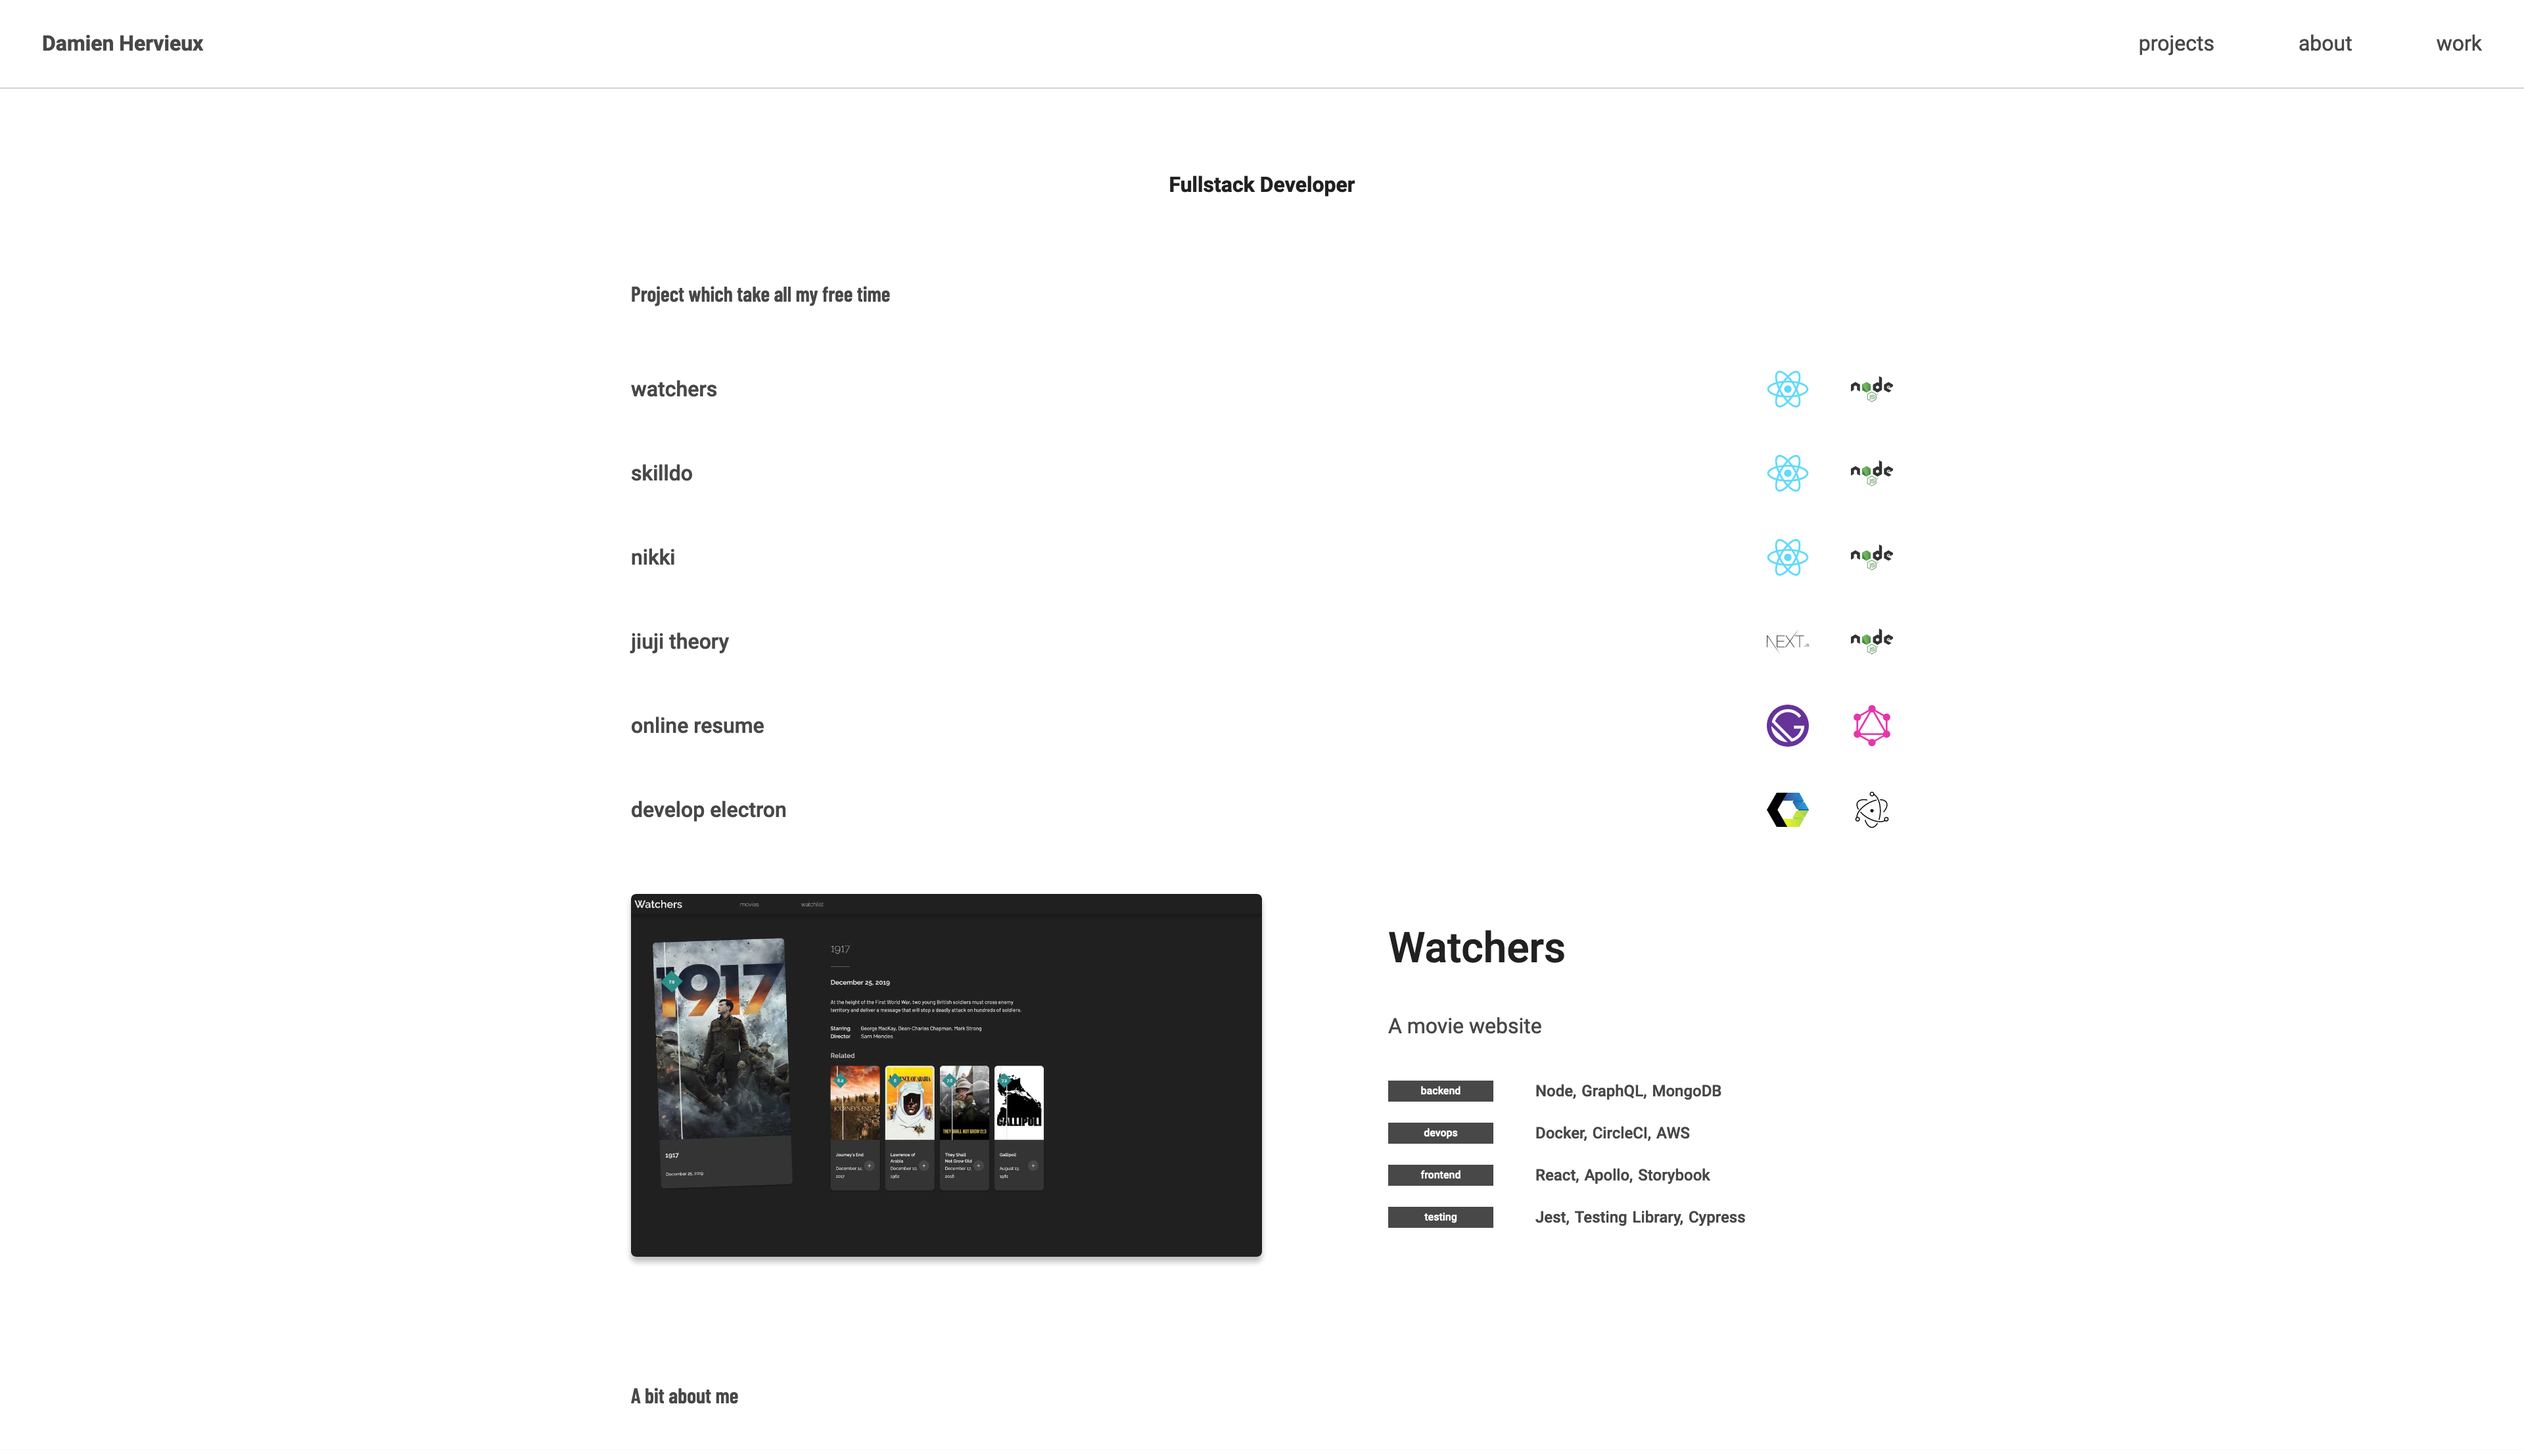
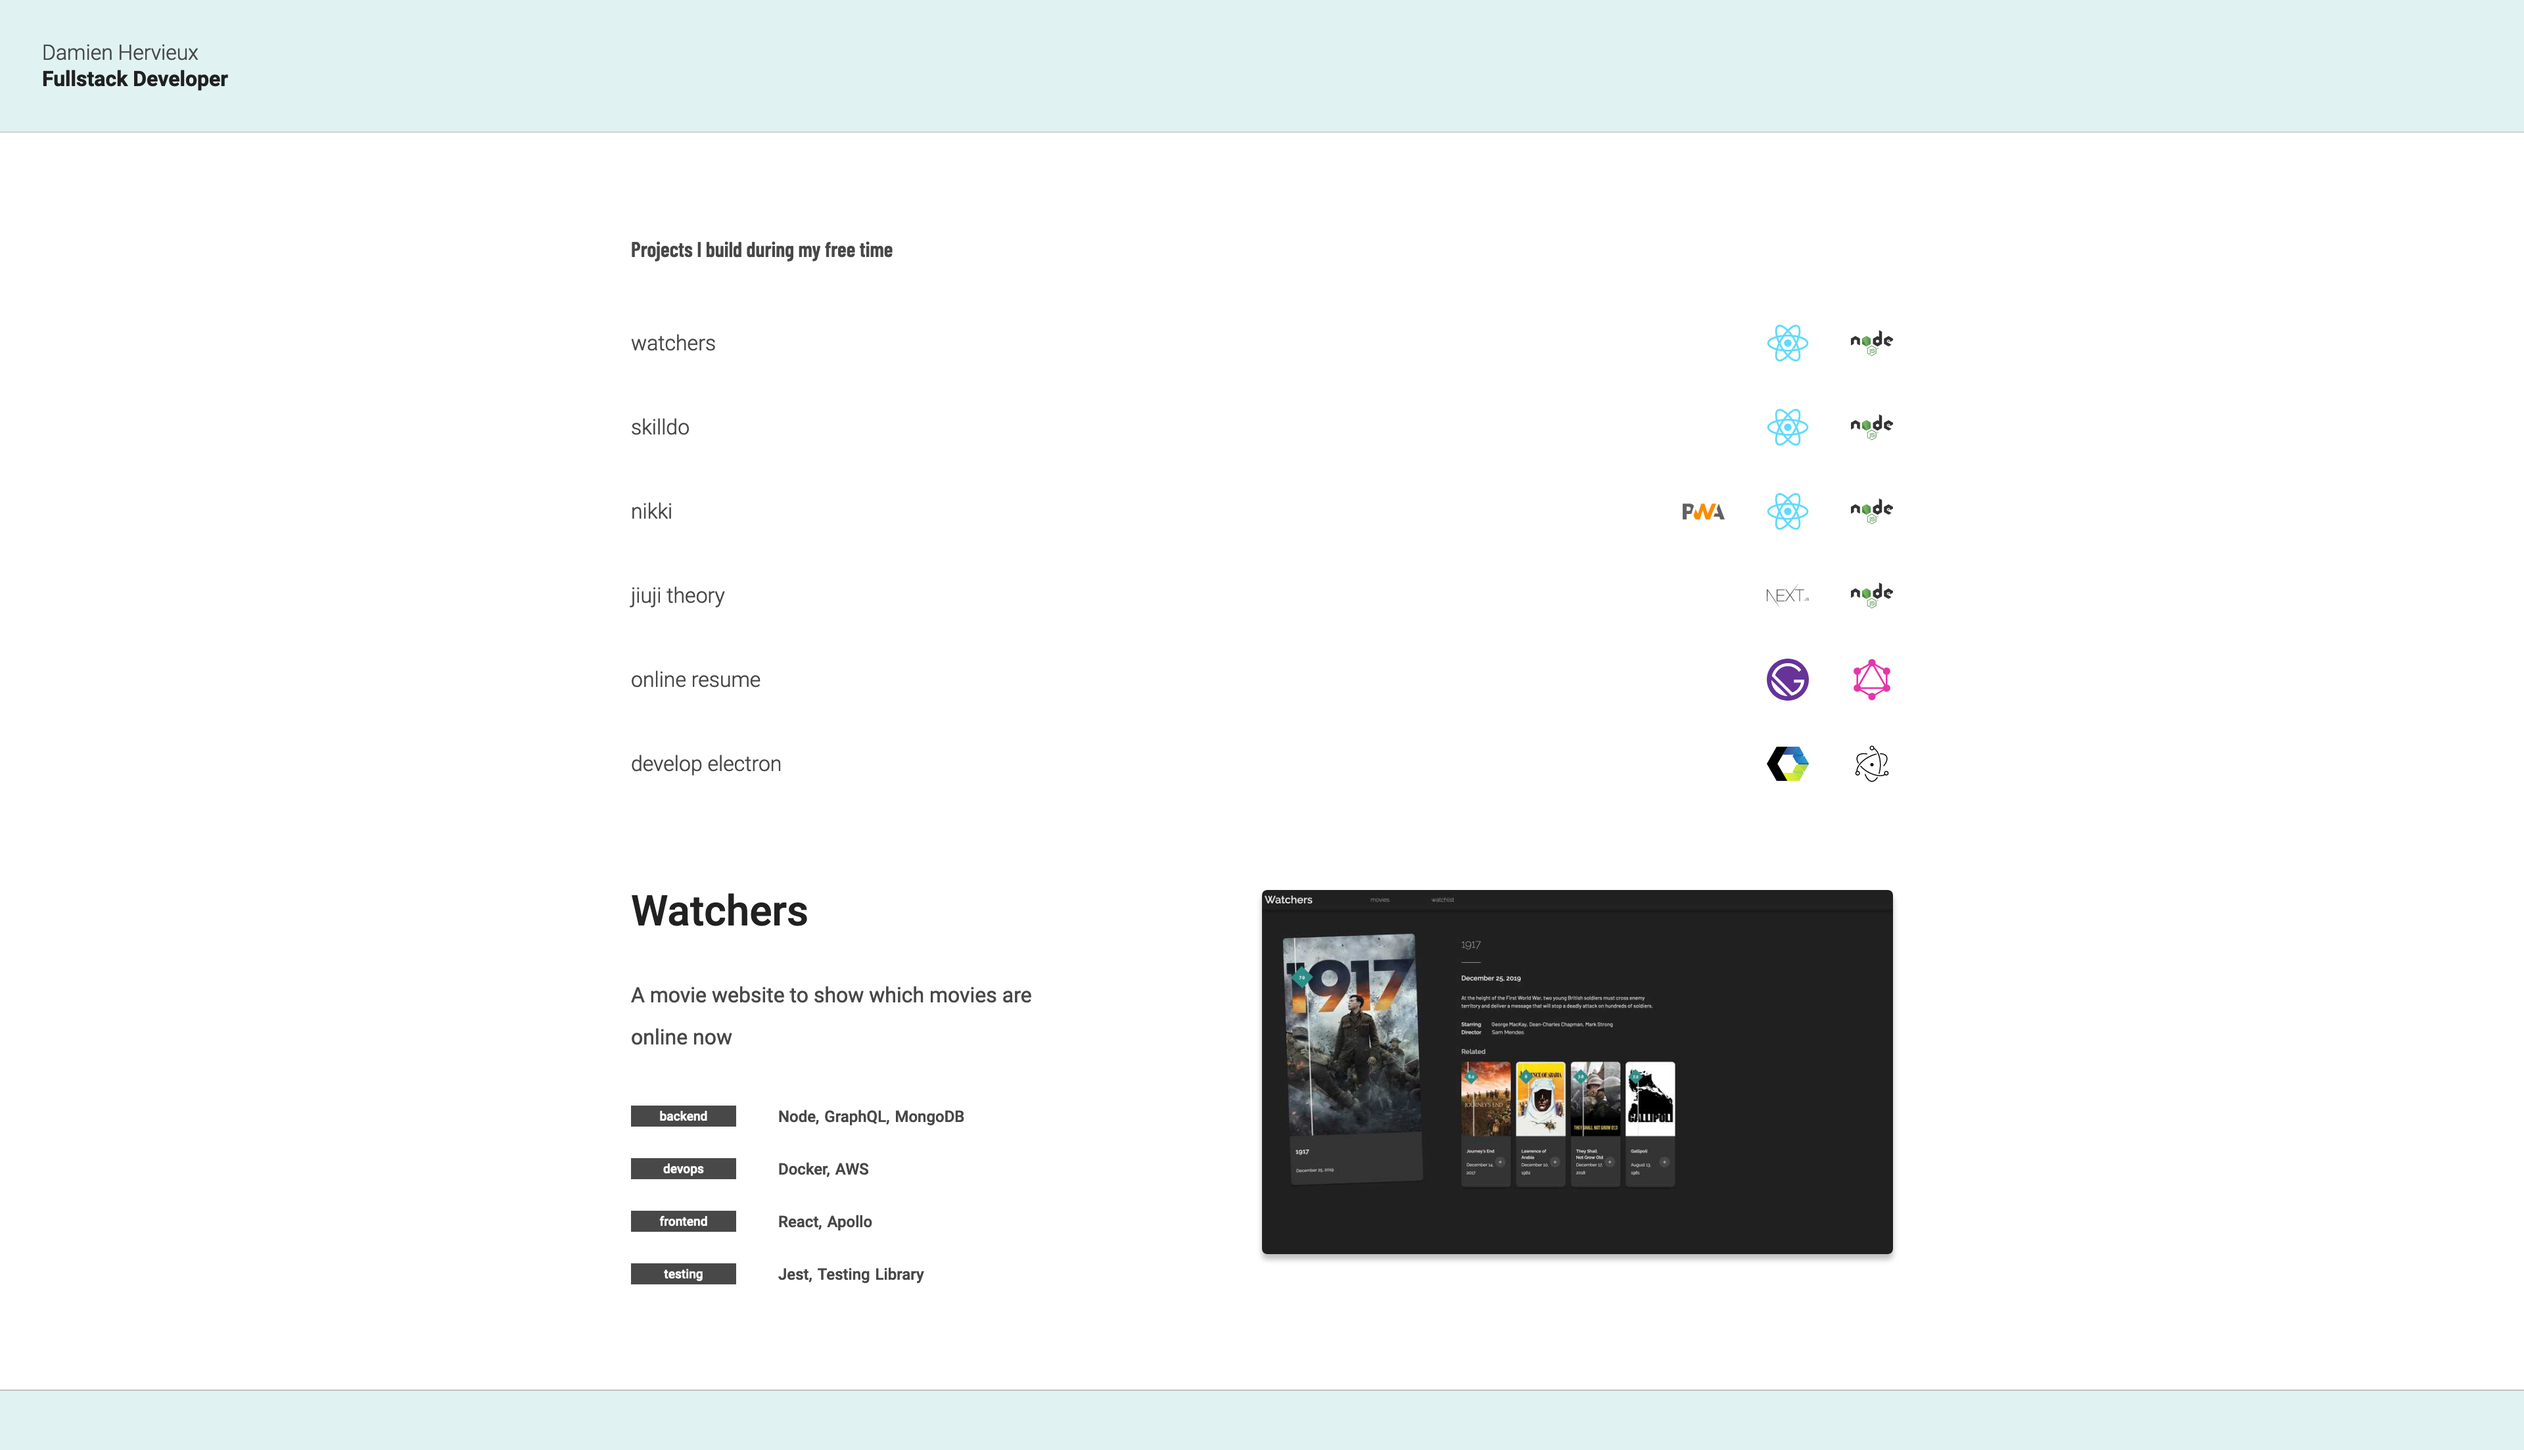
chore(deploy): update pictures and text

diff --git a/src/components/project-module-work.tsx b/src/components/project-module-work.tsx
@@ -22,7 +22,7 @@ const ProjectModuleWork: FC<Props> = ({ projectSelect, node, onClick }) => {
 
   return (
     <ProjectModuleLayout
-      title="Project I built with the team at work"
+      title="Projects I build with the team at work"
       project={project}
       select={<ProjectSelect projects={projectSelect} onClick={onClick} />}
     ></ProjectModuleLayout>

diff --git a/src/components/project-module.tsx b/src/components/project-module.tsx
@@ -19,7 +19,7 @@ const ProjectModule: FC<Props> = ({ projectSelect, node, onClick }) => {
 
   return (
     <ProjectModuleLayout
-      title="Project which take all my free time"
+      title="Projects I build during my free time"
       project={project}
       select={<ProjectSelect projects={projectSelect} onClick={onClick} />}
     ></ProjectModuleLayout>
